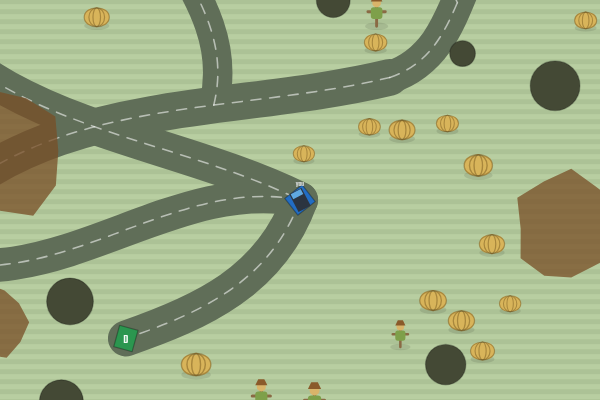
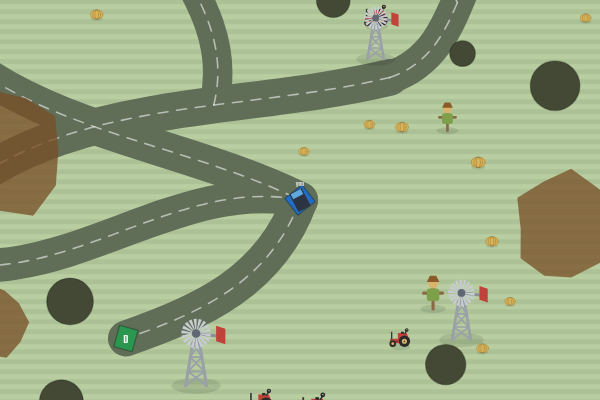
Add farmland windmills and tractors; shrink haybales
- Halve the haybale ("pumpkin") scale so they sit lower in the scene.
- New windmill prop: lattice tower, face-on multi-blade fan wheel, red tail
  vane - a farmland landmark like the trees.
- New tractor prop: red body, big rear / small front wheel, exhaust stack.
- Scarecrows unchanged.

diff --git a/src/game/render.ts b/src/game/render.ts
@@ -1218,6 +1218,132 @@ function drawProp(ctx: CanvasRenderingContext2D, kind: string, variant: number, 
       drawTreeBranch(ctx, rng, 0, 9, -Math.PI / 2, randRange(rng, 7, 10), 2.4, 0, 6);
       break;
     }
+    case "windmill": {
+      // American farm windmill: a lattice tower under a face-on multi-blade
+      // fan wheel, with a tail vane off to one side.
+      const baseHalf = 3.4;
+      const topHalf = 1.1;
+      const topY = -5;
+      const baseY = 9;
+      ctx.strokeStyle = "#9aa0a8";
+      ctx.lineCap = "round";
+      ctx.lineWidth = 1;
+      ctx.beginPath();
+      ctx.moveTo(-baseHalf, baseY);
+      ctx.lineTo(-topHalf, topY);
+      ctx.moveTo(baseHalf, baseY);
+      ctx.lineTo(topHalf, topY);
+      ctx.stroke();
+      // Cross-bracing between the rails so the tower reads as a lattice.
+      ctx.lineWidth = 0.6;
+      const segs = 3;
+      const railX = (t: number) => -baseHalf + (baseHalf - topHalf) * t;
+      const railY = (t: number) => baseY + (topY - baseY) * t;
+      ctx.beginPath();
+      for (let i = 0; i < segs; i++) {
+        const t0 = i / segs;
+        const t1 = (i + 1) / segs;
+        ctx.moveTo(railX(t0), railY(t0));
+        ctx.lineTo(-railX(t1), railY(t1));
+        ctx.moveTo(-railX(t0), railY(t0));
+        ctx.lineTo(railX(t1), railY(t1));
+        ctx.moveTo(railX(t1), railY(t1));
+        ctx.lineTo(-railX(t1), railY(t1));
+      }
+      ctx.stroke();
+      // Mast from the tower top up to the fan hub.
+      const hubY = topY - 3;
+      ctx.lineWidth = 1.2;
+      ctx.beginPath();
+      ctx.moveTo(0, topY);
+      ctx.lineTo(0, hubY);
+      ctx.stroke();
+      // Tail vane boom + fin behind the wheel.
+      ctx.strokeStyle = "#8a8f96";
+      ctx.lineWidth = 1;
+      ctx.beginPath();
+      ctx.moveTo(0, hubY);
+      ctx.lineTo(8, hubY + 1);
+      ctx.stroke();
+      ctx.fillStyle = "#c0433a";
+      ctx.beginPath();
+      ctx.moveTo(6.5, hubY - 2.5);
+      ctx.lineTo(9.5, hubY - 1.5);
+      ctx.lineTo(9.5, hubY + 3.5);
+      ctx.lineTo(6.5, hubY + 2.5);
+      ctx.closePath();
+      ctx.fill();
+      // Fan wheel: narrow blades fanning out into a near-solid disc.
+      const R = 4.8;
+      const blades = 18;
+      ctx.fillStyle = "#c7ccd2";
+      for (let i = 0; i < blades; i++) {
+        const a = (i / blades) * TAU;
+        const a2 = a + (TAU / blades) * 0.62;
+        ctx.beginPath();
+        ctx.moveTo(0, hubY);
+        ctx.lineTo(Math.cos(a) * R, hubY + Math.sin(a) * R);
+        ctx.lineTo(Math.cos(a2) * R, hubY + Math.sin(a2) * R);
+        ctx.closePath();
+        ctx.fill();
+      }
+      ctx.fillStyle = "#5f6873";
+      ctx.beginPath();
+      ctx.arc(0, hubY, 1.4, 0, TAU);
+      ctx.fill();
+      break;
+    }
+    case "tractor": {
+      // Classic farm tractor: big rear wheel, small front wheel, red body.
+      ctx.fillStyle = "#c0433a";
+      ctx.beginPath();
+      ctx.moveTo(-8, 6);
+      ctx.lineTo(-8, 2.5);
+      ctx.lineTo(-2, 2.5);
+      ctx.lineTo(-2, -2);
+      ctx.lineTo(5, -2);
+      ctx.lineTo(6.5, 2);
+      ctx.lineTo(6.5, 6);
+      ctx.closePath();
+      ctx.fill();
+      ctx.fillStyle = "#8f2f28";
+      ctx.fillRect(-8, 4, 6, 1.4);
+      // Exhaust stack rising off the hood.
+      ctx.fillStyle = "#3a3a3a";
+      ctx.fillRect(-7.4, -3, 1.1, 6);
+      // Seat + steering column.
+      ctx.fillStyle = "#2b2b2b";
+      ctx.fillRect(0.5, -3, 2.2, 1.6);
+      ctx.strokeStyle = "#2b2b2b";
+      ctx.lineWidth = 0.9;
+      ctx.beginPath();
+      ctx.moveTo(3.5, -1.5);
+      ctx.lineTo(5, -4);
+      ctx.stroke();
+      ctx.beginPath();
+      ctx.arc(5, -4.4, 1, 0, TAU);
+      ctx.stroke();
+      // Wheels (drawn over the body so the fenders tuck behind them).
+      ctx.fillStyle = "#2b2b2b";
+      ctx.beginPath();
+      ctx.arc(3.2, 4.5, 4.5, 0, TAU);
+      ctx.fill();
+      ctx.beginPath();
+      ctx.arc(-6, 6.4, 2.6, 0, TAU);
+      ctx.fill();
+      ctx.fillStyle = "#d9b46a";
+      ctx.beginPath();
+      ctx.arc(3.2, 4.5, 2, 0, TAU);
+      ctx.fill();
+      ctx.beginPath();
+      ctx.arc(-6, 6.4, 1.1, 0, TAU);
+      ctx.fill();
+      ctx.fillStyle = "#5f5140";
+      ctx.beginPath();
+      ctx.arc(3.2, 4.5, 0.7, 0, TAU);
+      ctx.fill();
+      break;
+    }
   }
 }
 

diff --git a/src/level/themes.ts b/src/level/themes.ts
@@ -191,8 +191,10 @@ export const THEMES: Record<ThemeId, Theme> = {
     mud: band([28, 42], [36, 52], [28, 36]),
     house: band([8, 28], [30, 46], [50, 62]),
     props: [
-      { kind: "haybale", weight: 2, minScale: 2, maxScale: 3 },
+      { kind: "haybale", weight: 2, minScale: 1, maxScale: 1.5 },
       { kind: "scarecrow", weight: 1, minScale: 2, maxScale: 2.8 },
+      { kind: "windmill", weight: 1, minScale: 3.5, maxScale: 5 },
+      { kind: "tractor", weight: 1, minScale: 2, maxScale: 2.8 },
     ],
   },
   autumn: {

diff --git a/README.md b/README.md
@@ -33,8 +33,8 @@ What's implemented:
   suit its biome — grassland cows/shrubs, desert cacti/tumbleweeds, town
   trees/cyclists, city buildings/cars, moon astronauts/flags, snow
   penguins/pines, beach palms/umbrellas/beach-balls, forest pines/mushrooms,
-  farmland haybales/scarecrows, autumn bare-trees/pumpkins/leaf-patches, savanna
-  acacias/grass tufts, volcanic charred-trees (recursive fractals)/lava-cracks/
+  farmland haybales/scarecrows/windmills/tractors, autumn
+  bare-trees/pumpkins/leaf-patches, savanna acacias/grass tufts, volcanic charred-trees (recursive fractals)/lava-cracks/
   obsidian, swamp reeds/lily-pads/fog, candy lollipops/candy-canes/gumdrops,
   plus the seasonal Easter eggs/bunnies and New Year's fireworks/balloons. Props
   can carry a per-instance seed for deterministic in-sprite randomness (branch
